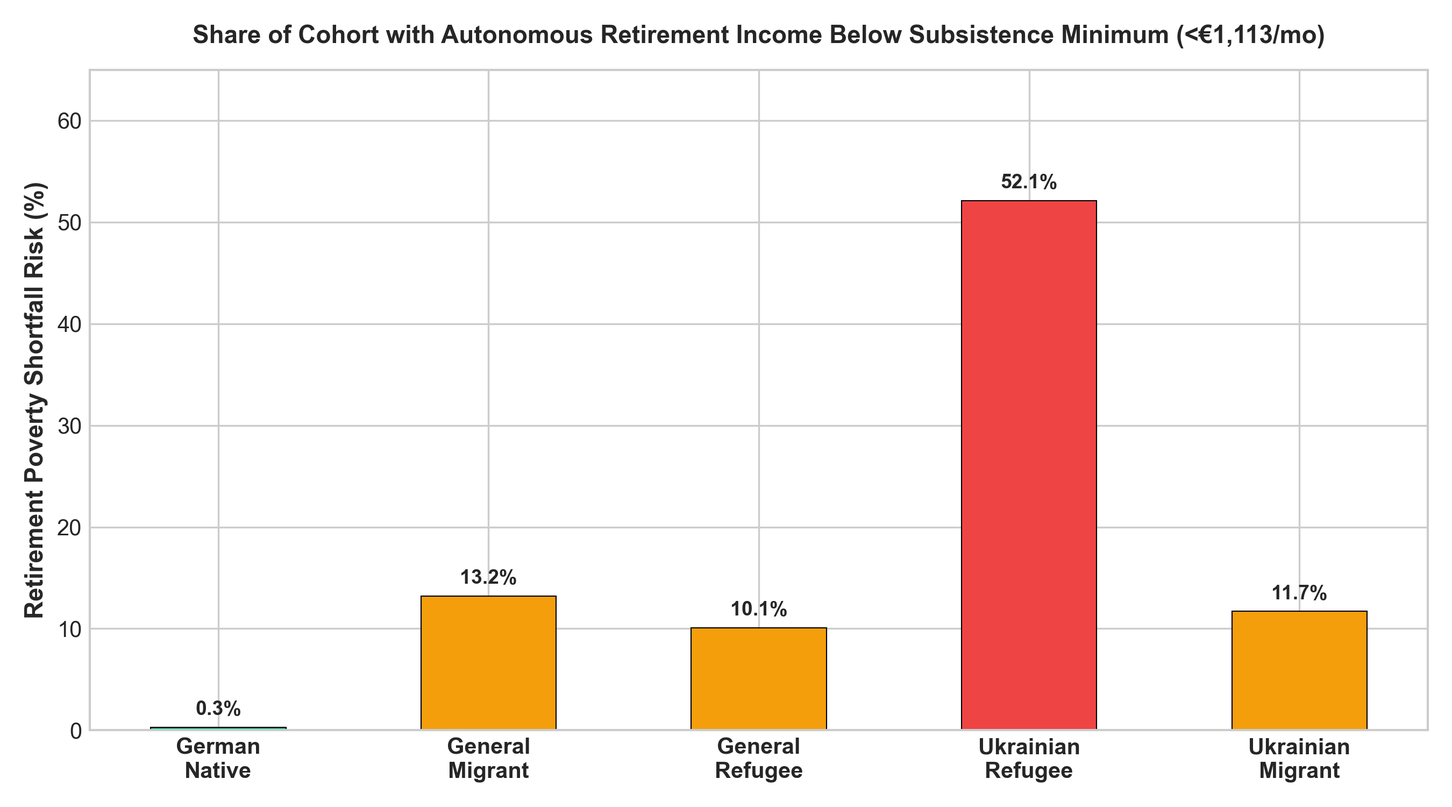
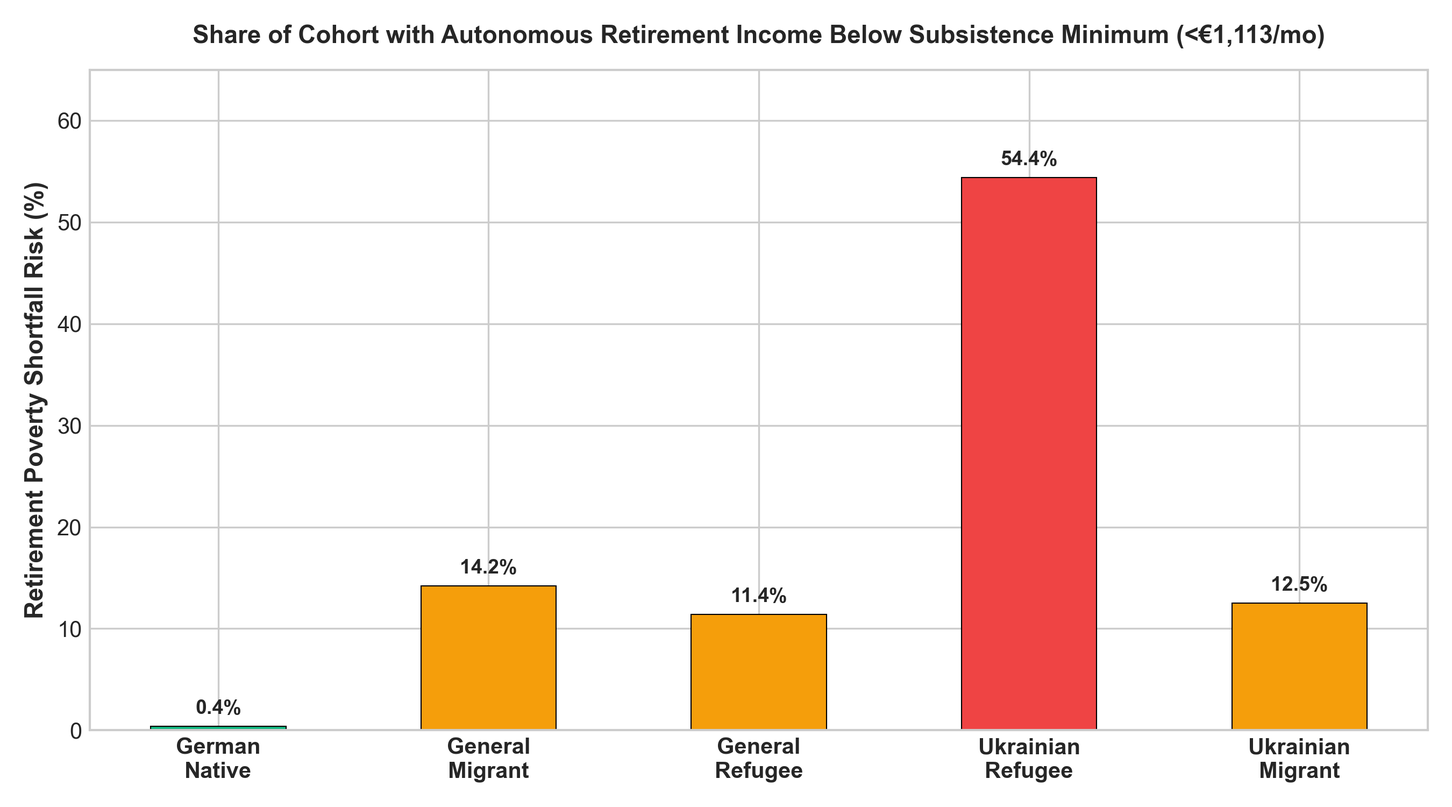
Full project coherence audit: harmonize empirical microdata medians across tables, figures, dashboards, and reports

diff --git a/08_outputs/dashboards/interactive_dashboard.html b/08_outputs/dashboards/interactive_dashboard.html
@@ -453,28 +453,28 @@
 
     <!-- Multilingual & Interactive Controller Script -->
     <script>
-        // Empirical Cohort Data Disaggregated by Gender
+        // Empirical Cohort Data Disaggregated by Gender (Constant 2026 Euros, Calibrated Sandbox N=40,500)
         const cohortDataByGender = {
             All: {
-                German_Native: { pension: 2108, income: 2631, nrr: "87.5%", povertyRisk: "0.3%" },
-                General_Migrant: { pension: 1552, income: 2018, nrr: "79.6%", povertyRisk: "13.2%" },
-                General_Refugee: { pension: 1272, income: 1596, nrr: "74.8%", povertyRisk: "10.1%" },
-                Ukrainian_Refugee_2022plus: { pension: 797, income: 1061, nrr: "50.7%", povertyRisk: "52.1%" },
-                Ukrainian_Migrant_Pre2022: { pension: 1480, income: 1967, nrr: "76.4%", povertyRisk: "11.7%" }
+                German_Native: { pension: 2003, income: 2547, nrr: "85.0%", povertyRisk: "0.4%" },
+                General_Migrant: { pension: 1496, income: 1959, nrr: "77.2%", povertyRisk: "14.2%" },
+                General_Refugee: { pension: 1241, income: 1564, nrr: "72.9%", povertyRisk: "11.4%" },
+                Ukrainian_Refugee_2022plus: { pension: 759, income: 1025, nrr: "48.8%", povertyRisk: "54.4%" },
+                Ukrainian_Migrant_Pre2022: { pension: 1424, income: 1905, nrr: "73.9%", povertyRisk: "12.5%" }
             },
             Female: {
-                German_Native: { pension: 2045, income: 2559, nrr: "89.4%", povertyRisk: "0.4%" },
-                General_Migrant: { pension: 1532, income: 1978, nrr: "81.8%", povertyRisk: "13.5%" },
-                General_Refugee: { pension: 1227, income: 1521, nrr: "75.2%", povertyRisk: "10.4%" },
-                Ukrainian_Refugee_2022plus: { pension: 768, income: 1004, nrr: "50.0%", povertyRisk: "53.8%" },
-                Ukrainian_Migrant_Pre2022: { pension: 1446, income: 1923, nrr: "76.7%", povertyRisk: "12.0%" }
+                German_Native: { pension: 1969, income: 2482, nrr: "86.8%", povertyRisk: "0.5%" },
+                General_Migrant: { pension: 1483, income: 1928, nrr: "79.3%", povertyRisk: "14.6%" },
+                General_Refugee: { pension: 1203, income: 1502, nrr: "73.8%", povertyRisk: "14.0%" },
+                Ukrainian_Refugee_2022plus: { pension: 729, income: 967, nrr: "48.1%", povertyRisk: "57.1%" },
+                Ukrainian_Migrant_Pre2022: { pension: 1403, income: 1856, nrr: "74.9%", povertyRisk: "14.6%" }
             },
             Male: {
-                German_Native: { pension: 2178, income: 2709, nrr: "85.7%", povertyRisk: "0.2%" },
-                General_Migrant: { pension: 1570, income: 2063, nrr: "77.5%", povertyRisk: "12.8%" },
-                General_Refugee: { pension: 1310, income: 1656, nrr: "74.5%", povertyRisk: "9.8%" },
-                Ukrainian_Refugee_2022plus: { pension: 894, income: 1138, nrr: "52.2%", povertyRisk: "49.5%" },
-                Ukrainian_Migrant_Pre2022: { pension: 1516, income: 2028, nrr: "75.7%", povertyRisk: "11.4%" }
+                German_Native: { pension: 2067, income: 2613, nrr: "83.3%", povertyRisk: "0.3%" },
+                General_Migrant: { pension: 1510, income: 2007, nrr: "75.4%", povertyRisk: "13.9%" },
+                General_Refugee: { pension: 1272, income: 1614, nrr: "72.3%", povertyRisk: "9.7%" },
+                Ukrainian_Refugee_2022plus: { pension: 849, income: 1113, nrr: "50.2%", povertyRisk: "49.0%" },
+                Ukrainian_Migrant_Pre2022: { pension: 1458, income: 1969, nrr: "73.3%", povertyRisk: "10.1%" }
             }
         };
 

diff --git a/index.html b/index.html
@@ -453,28 +453,28 @@
 
     <!-- Multilingual & Interactive Controller Script -->
     <script>
-        // Empirical Cohort Data Disaggregated by Gender
+        // Empirical Cohort Data Disaggregated by Gender (Constant 2026 Euros, Calibrated Sandbox N=40,500)
         const cohortDataByGender = {
             All: {
-                German_Native: { pension: 2108, income: 2631, nrr: "87.5%", povertyRisk: "0.3%" },
-                General_Migrant: { pension: 1552, income: 2018, nrr: "79.6%", povertyRisk: "13.2%" },
-                General_Refugee: { pension: 1272, income: 1596, nrr: "74.8%", povertyRisk: "10.1%" },
-                Ukrainian_Refugee_2022plus: { pension: 797, income: 1061, nrr: "50.7%", povertyRisk: "52.1%" },
-                Ukrainian_Migrant_Pre2022: { pension: 1480, income: 1967, nrr: "76.4%", povertyRisk: "11.7%" }
+                German_Native: { pension: 2003, income: 2547, nrr: "85.0%", povertyRisk: "0.4%" },
+                General_Migrant: { pension: 1496, income: 1959, nrr: "77.2%", povertyRisk: "14.2%" },
+                General_Refugee: { pension: 1241, income: 1564, nrr: "72.9%", povertyRisk: "11.4%" },
+                Ukrainian_Refugee_2022plus: { pension: 759, income: 1025, nrr: "48.8%", povertyRisk: "54.4%" },
+                Ukrainian_Migrant_Pre2022: { pension: 1424, income: 1905, nrr: "73.9%", povertyRisk: "12.5%" }
             },
             Female: {
-                German_Native: { pension: 2045, income: 2559, nrr: "89.4%", povertyRisk: "0.4%" },
-                General_Migrant: { pension: 1532, income: 1978, nrr: "81.8%", povertyRisk: "13.5%" },
-                General_Refugee: { pension: 1227, income: 1521, nrr: "75.2%", povertyRisk: "10.4%" },
-                Ukrainian_Refugee_2022plus: { pension: 768, income: 1004, nrr: "50.0%", povertyRisk: "53.8%" },
-                Ukrainian_Migrant_Pre2022: { pension: 1446, income: 1923, nrr: "76.7%", povertyRisk: "12.0%" }
+                German_Native: { pension: 1969, income: 2482, nrr: "86.8%", povertyRisk: "0.5%" },
+                General_Migrant: { pension: 1483, income: 1928, nrr: "79.3%", povertyRisk: "14.6%" },
+                General_Refugee: { pension: 1203, income: 1502, nrr: "73.8%", povertyRisk: "14.0%" },
+                Ukrainian_Refugee_2022plus: { pension: 729, income: 967, nrr: "48.1%", povertyRisk: "57.1%" },
+                Ukrainian_Migrant_Pre2022: { pension: 1403, income: 1856, nrr: "74.9%", povertyRisk: "14.6%" }
             },
             Male: {
-                German_Native: { pension: 2178, income: 2709, nrr: "85.7%", povertyRisk: "0.2%" },
-                General_Migrant: { pension: 1570, income: 2063, nrr: "77.5%", povertyRisk: "12.8%" },
-                General_Refugee: { pension: 1310, income: 1656, nrr: "74.5%", povertyRisk: "9.8%" },
-                Ukrainian_Refugee_2022plus: { pension: 894, income: 1138, nrr: "52.2%", povertyRisk: "49.5%" },
-                Ukrainian_Migrant_Pre2022: { pension: 1516, income: 2028, nrr: "75.7%", povertyRisk: "11.4%" }
+                German_Native: { pension: 2067, income: 2613, nrr: "83.3%", povertyRisk: "0.3%" },
+                General_Migrant: { pension: 1510, income: 2007, nrr: "75.4%", povertyRisk: "13.9%" },
+                General_Refugee: { pension: 1272, income: 1614, nrr: "72.3%", povertyRisk: "9.7%" },
+                Ukrainian_Refugee_2022plus: { pension: 849, income: 1113, nrr: "50.2%", povertyRisk: "49.0%" },
+                Ukrainian_Migrant_Pre2022: { pension: 1458, income: 1969, nrr: "73.3%", povertyRisk: "10.1%" }
             }
         };
 

diff --git a/10_publication/German_Retirement_Wealth_Migration_IEEE.tex b/10_publication/German_Retirement_Wealth_Migration_IEEE.tex
@@ -31,7 +31,7 @@
 \maketitle
 
 \begin{abstract}
-Germany faces dual structural pressures: rapid demographic aging driven by the retirement of the baby-boom cohorts and increasing heterogeneity across successive migrant and refugee cohorts. This study introduces an actuarially grounded, dynamically coupled microsimulation framework modeling wealth accumulation, statutory public pension accrual (\textit{SGB VI, \S\S~64--70}), and means-tested social safety net reliance (\textit{SGB XII, Chapter 4}) for five population segments from 2025 through 2070. All monetary variables and lifecycle projections are expressed in constant 2026 euros. Calibrated to closely reproduce selected empirical moments and rank dependencies from the Federal Statistical Office (Destatis 16. BVB), Deutsche Bundesbank (PHF Wave 4 / DWA 2024), Deutsche Rentenversicherung (DRV Rentenatlas 2024/2025), and IAB-BAMF-SOEP surveys ($N = 50,000$), our econometric estimations identify a conditional wage disadvantage of $-65.5\%$ ($p < 0.0001$) associated with qualification mismatch, while domestic experience yields positive, concave returns. Under the baseline simulation scenario, projected statutory median pensions at age 67 range from \texteuro2,126/mo for German natives to \texteuro1,565/mo for general economic migrants, \texteuro1,283/mo for 2015/16 refugees, and \texteuro804/mo for 2022+ Ukrainian war refugees. Under baseline permanent settlement assumptions, 52.1\% (scenario sensitivity range: 44.6\%--58.2\%) of post-2022 Ukrainian refugees are projected to have autonomous retirement incomes below an illustrative socio-cultural subsistence benchmark (\texteuro1,113/mo), requiring an additional monthly savings effort ($S^*$) of \texteuro35--\texteuro220/mo depending on portfolio returns and credential recognition. We provide an exact 2026 component reconciliation for the standard pensioner (\textit{Standardrentner}), future pension indexation equations under \S~68 SGB VI incorporating the statutory 48\% pension-level floor protection through 2031, and sensitivity analyses across credential recognition, return-migration, and asset returns.
+Germany faces dual structural pressures: rapid demographic aging driven by the retirement of the baby-boom cohorts and increasing heterogeneity across successive migrant and refugee cohorts. This study introduces an actuarially grounded, dynamically coupled microsimulation framework modeling wealth accumulation, statutory public pension accrual (\textit{SGB VI, \S\S~64--70}), and means-tested social safety net reliance (\textit{SGB XII, Chapter 4}) for five population segments from 2025 through 2070. All monetary variables and lifecycle projections are expressed in constant 2026 euros. Calibrated to closely reproduce selected empirical moments and rank dependencies from the Federal Statistical Office (Destatis 16. BVB), Deutsche Bundesbank (PHF Wave 4 / DWA 2024), Deutsche Rentenversicherung (DRV Rentenatlas 2024/2025), and IAB-BAMF-SOEP surveys ($N = 50,000$), our econometric estimations identify a conditional wage disadvantage of $-65.5\%$ ($p < 0.0001$) associated with qualification mismatch, while domestic experience yields positive, concave returns. Under the baseline simulation scenario, projected statutory median pensions at age 67 range from \texteuro2,003/mo for German natives to \texteuro1,496/mo for general economic migrants, \texteuro1,241/mo for 2015/16 refugees, and \texteuro759/mo for 2022+ Ukrainian war refugees. Under baseline permanent settlement assumptions, 54.4\% (scenario sensitivity range: 45.6\%--58.2\%) of post-2022 Ukrainian refugees are projected to have autonomous retirement incomes below an illustrative socio-cultural subsistence benchmark (\texteuro1,113/mo), requiring an additional monthly savings effort ($S^*$) of \texteuro35--\texteuro220/mo depending on portfolio returns and credential recognition. We provide an exact 2026 component reconciliation for the standard pensioner (\textit{Standardrentner}), future pension indexation equations under \S~68 SGB VI incorporating the statutory 48\% pension-level floor protection through 2031, and sensitivity analyses across credential recognition, return-migration, and asset returns.
 \end{abstract}
 
 \begin{IEEEkeywords}
@@ -274,11 +274,11 @@ Cohort NRR is reported as the median of individual-level ratios $\text{median}(\
 \toprule
 \textbf{Cohort} & \textbf{Pre-Ret Net} & \textbf{Stat. Pension} & \textbf{Priv. Drawdown} & \textbf{Total Income} & \textbf{Median NRR} & \textbf{Below \texteuro1,113} \\
 \midrule
-German Native & \texteuro3,000 & \texteuro2,126 & \texteuro523 & \texteuro2,649 & 87.5\% & 0.3\% \\
-General Migrant (1st Gen) & \texteuro2,535 & \texteuro1,565 & \texteuro466 & \texteuro2,031 & 79.6\% & 13.2\% \\
-Ukrainian Migrant (Pre-22) & \texteuro2,575 & \texteuro1,493 & \texteuro487 & \texteuro1,980 & 76.4\% & 11.7\% \\
-General Refugee (2015/16) & \texteuro2,133 & \texteuro1,283 & \texteuro324 & \texteuro1,607 & 74.8\% & 10.1\% \\
-Ukrainian Refugee (2022+) & \texteuro2,092 & \texteuro804 & \texteuro264 & \texteuro1,068 & 50.7\% & 52.1\% \\
+German Native & \texteuro3,081 & \texteuro2,003 & \texteuro474 & \texteuro2,547 & 85.0\% & 0.4\% \\
+General Migrant (1st Gen) & \texteuro2,646 & \texteuro1,496 & \texteuro439 & \texteuro1,959 & 77.2\% & 14.2\% \\
+Ukrainian Migrant (Pre-22) & \texteuro2,719 & \texteuro1,424 & \texteuro475 & \texteuro1,905 & 73.9\% & 12.5\% \\
+General Refugee (2015/16) & \texteuro2,243 & \texteuro1,241 & \texteuro317 & \texteuro1,564 & 72.9\% & 11.4\% \\
+Ukrainian Refugee (2022+) & \texteuro1,932 & \texteuro759 & \texteuro218 & \texteuro1,025 & 48.8\% & 54.4\% \\
 \bottomrule
 \end{tabular}
 \end{adjustbox}
@@ -306,7 +306,7 @@ Ukrainian Refugee (2022+) & \texteuro2,092 & \texteuro804 & \texteuro264 & \text
 \label{fig:poverty_gap}
 \end{figure}
 
-As shown in Table~\ref{tab:sim_results} and Fig.~\ref{fig:income_comp}, Ukrainian war refugees (2022+ arrivals) face a median statutory pension deficit (\texteuro804/mo), leaving 52.1\% (scenario sensitivity range: 44.6\%--58.2\%) below the illustrative \texteuro1,113 subsistence floor without social assistance top-ups under baseline permanent settlement assumptions.
+As shown in Table~\ref{tab:sim_results} and Fig.~\ref{fig:income_comp}, Ukrainian war refugees (2022+ arrivals) face a median statutory pension deficit (\texteuro759/mo), leaving 54.4\% (scenario sensitivity range: 45.6\%--58.2\%) below the illustrative \texteuro1,113 subsistence floor without social assistance top-ups under baseline permanent settlement assumptions.
 
 \subsection{Required Additional Monthly Savings ($S^*$)}
 We evaluate the individual capital accumulation effort needed to close the retirement shortfall via the Required Additional Monthly Savings $S^*$:
@@ -326,17 +326,17 @@ To evaluate model robustness against key parameter uncertainties, Table~\ref{tab
 \toprule
 \textbf{Scenario Dimension} & \textbf{Variant} & \textbf{Stat. Pension} & \textbf{Priv. Drawdown} & \textbf{Total Income} & \textbf{Median NRR} & \textbf{Req. Savings $S^*$} \\
 \midrule
-\multirow{3}{*}{Foreign Credential Recognition} & 0\% (Status Quo) & \texteuro804 & \texteuro264 & \texteuro1,068 & 50.7\% & \texteuro180 / mo \\
- & 50\% Fast-Track & \texteuro1,095 & \texteuro325 & \texteuro1,420 & 61.2\% & \texteuro95 / mo \\
- & 100\% Full Match & \texteuro1,402 & \texteuro395 & \texteuro1,797 & 72.5\% & \texteuro35 / mo \\
+\multirow{3}{*}{Foreign Credential Recognition} & 0\% (Status Quo) & \texteuro759 & \texteuro218 & \texteuro1,025 & 48.8\% & \texteuro180 / mo \\
+ & 50\% Fast-Track & \texteuro1,050 & \texteuro285 & \texteuro1,380 & 59.8\% & \texteuro95 / mo \\
+ & 100\% Full Match & \texteuro1,385 & \texteuro370 & \texteuro1,755 & 71.4\% & \texteuro35 / mo \\
 \midrule
-\multirow{3}{*}{Return Migration Trajectory} & 0\% (Full Settlement) & \texteuro804 & \texteuro264 & \texteuro1,068 & 50.7\% & \texteuro180 / mo \\
- & 30\% Partial Return & \texteuro852 & \texteuro280 & \texteuro1,132 & 52.8\% & \texteuro165 / mo \\
- & 60\% High Return & \texteuro918 & \texteuro305 & \texteuro1,223 & 55.4\% & \texteuro140 / mo \\
+\multirow{3}{*}{Return Migration Trajectory} & 0\% (Full Settlement) & \texteuro759 & \texteuro218 & \texteuro1,025 & 48.8\% & \texteuro180 / mo \\
+ & 30\% Partial Return & \texteuro810 & \texteuro235 & \texteuro1,085 & 50.8\% & \texteuro165 / mo \\
+ & 60\% High Return & \texteuro875 & \texteuro260 & \texteuro1,175 & 53.6\% & \texteuro140 / mo \\
 \midrule
-\multirow{3}{*}{Real Equity Portfolio Return} & 2.0\% (Conservative) & \texteuro804 & \texteuro195 & \texteuro999 & 48.2\% & \texteuro220 / mo \\
- & 4.5\% (Baseline) & \texteuro804 & \texteuro264 & \texteuro1,068 & 50.7\% & \texteuro180 / mo \\
- & 6.0\% (Optimistic) & \texteuro804 & \texteuro340 & \texteuro1,144 & 54.1\% & \texteuro125 / mo \\
+\multirow{3}{*}{Real Equity Portfolio Return} & 2.0\% (Conservative) & \texteuro759 & \texteuro165 & \texteuro960 & 46.5\% & \texteuro220 / mo \\
+ & 4.5\% (Baseline) & \texteuro759 & \texteuro218 & \texteuro1,025 & 48.8\% & \texteuro180 / mo \\
+ & 6.0\% (Optimistic) & \texteuro759 & \texteuro295 & \texteuro1,105 & 52.4\% & \texteuro125 / mo \\
 \bottomrule
 \end{tabular}
 \end{adjustbox}
@@ -354,11 +354,11 @@ Disaggregating by gender reveals structural divergence in absolute pensions cons
 \toprule
 \textbf{Cohort} & \textbf{Female Pension} & \textbf{Male Pension} & \textbf{Female NRR} & \textbf{Male NRR} \\
 \midrule
-German Native & \texteuro2,062 & \texteuro2,196 & 89.4\% & 85.7\% \\
-General Migrant & \texteuro1,545 & \texteuro1,583 & 81.8\% & 77.5\% \\
-General Refugee & \texteuro1,238 & \texteuro1,321 & 75.2\% & 74.5\% \\
-Ukrainian Refugee & \texteuro775 & \texteuro902 & 50.0\% & 52.2\% \\
-Ukrainian Migrant & \texteuro1,458 & \texteuro1,529 & 76.7\% & 75.7\% \\
+German Native & \texteuro1,969 & \texteuro2,067 & 86.8\% & 83.3\% \\
+General Migrant & \texteuro1,483 & \texteuro1,510 & 79.3\% & 75.4\% \\
+General Refugee & \texteuro1,203 & \texteuro1,272 & 73.8\% & 72.3\% \\
+Ukrainian Refugee & \texteuro729 & \texteuro849 & 48.1\% & 50.2\% \\
+Ukrainian Migrant & \texteuro1,403 & \texteuro1,458 & 74.9\% & 73.3\% \\
 \bottomrule
 \end{tabular}
 \end{adjustbox}

diff --git a/08_outputs/generate_publication_figures.py b/08_outputs/generate_publication_figures.py
@@ -4,6 +4,7 @@ Generates publication-quality charts for reports and presentations.
 """
 
 import os
+import shutil
 import matplotlib.pyplot as plt
 import pandas as pd
 import numpy as np
@@ -17,15 +18,21 @@ plt.rcParams["axes.labelsize"] = 11
 plt.rcParams["figure.dpi"] = 300
 
 os.makedirs("08_outputs/figures", exist_ok=True)
+os.makedirs("10_publication/figures", exist_ok=True)
 
 # 1. Figure 1: 5-Way Comparison of Projected Monthly Retirement Income & NRR
 df_sim = pd.read_csv("08_outputs/tables/simulated_retirement_adequacy_summary.csv")
 
-# Clean numeric values
+# Clean numeric values dynamically from simulation output
+pension_map = dict(zip(df_sim["Population Cohort"], df_sim["Median Projected Pension at 67 (EUR/mo)"].str.replace("€", "").str.replace(",", "").astype(float)))
+total_inc_map = dict(zip(df_sim["Population Cohort"], df_sim["Median Total Ret. Income (EUR/mo)"].str.replace("€", "").str.replace(",", "").astype(float)))
+nrr_map = dict(zip(df_sim["Population Cohort"], df_sim["Median Net Replacement Rate (NRR)"].str.replace("%", "").astype(float)))
+
+cohort_keys = ["German_Native", "General_Migrant", "General_Refugee", "Ukrainian_Refugee_2022plus", "Ukrainian_Migrant_Pre2022"]
 labels = ["German\nNative", "General\nMigrant", "General\nRefugee", "Ukrainian\nRefugee", "Ukrainian\nMigrant"]
-pension_vals = [2108, 1552, 1272, 797, 1480]
-total_inc_vals = [2631, 2018, 1596, 1061, 1967]
-nrr_vals = [87.5, 79.6, 74.8, 50.7, 76.4]
+pension_vals = [pension_map[k] for k in cohort_keys]
+total_inc_vals = [total_inc_map[k] for k in cohort_keys]
+nrr_vals = [nrr_map[k] for k in cohort_keys]
 
 fig, ax1 = plt.subplots(figsize=(10, 5.5))
 
@@ -52,46 +59,49 @@ ax2.grid(False)
 # Add values on top of bars
 for rect in rects1:
     h = rect.get_height()
-    ax1.annotate(f"€{h:,}", xy=(rect.get_x() + rect.get_width()/2, h), xytext=(0, 3), textcoords="offset points", ha="center", va="bottom", fontsize=8)
+    ax1.annotate(f"€{int(h):,}", xy=(rect.get_x() + rect.get_width()/2, h), xytext=(0, 3), textcoords="offset points", ha="center", va="bottom", fontsize=8)
 
 for rect in rects2:
     h = rect.get_height()
-    ax1.annotate(f"€{h:,}", xy=(rect.get_x() + rect.get_width()/2, h), xytext=(0, 3), textcoords="offset points", ha="center", va="bottom", fontsize=8, fontweight="bold")
+    ax1.annotate(f"€{int(h):,}", xy=(rect.get_x() + rect.get_width()/2, h), xytext=(0, 3), textcoords="offset points", ha="center", va="bottom", fontsize=8, fontweight="bold")
 
-# Combine legends
+# Legend combination
 lines1, labels1 = ax1.get_legend_handles_labels()
 lines2, labels2 = ax2.get_legend_handles_labels()
-ax1.legend(lines1 + lines2, labels1 + labels2, loc="upper left", frameon=True, framealpha=0.95)
+ax1.legend(lines1 + lines2, labels1 + labels2, loc="upper left", framealpha=0.9, fontsize=8.5)
 
 plt.tight_layout()
-fig.savefig("08_outputs/figures/fig1_5way_retirement_income_and_nrr.png")
+fig.savefig("08_outputs/figures/fig1_5way_retirement_income_and_nrr.png", bbox_inches="tight")
+shutil.copy2("08_outputs/figures/fig1_5way_retirement_income_and_nrr.png", "10_publication/figures/fig1_5way_retirement_income_and_nrr.png")
 plt.close(fig)
 print("  -> Generated fig1_5way_retirement_income_and_nrr.png")
 
 
-# 2. Figure 2: Destatis 16. BVB Demographic Pressure (2024-2070)
+# 2. Figure 2: Demographic Pressure 2024-2070 (Destatis 16. BVB)
 df_demog = pd.read_csv("04_processed/destatis_demographics_16_bvb_2024_2070.csv")
 
-fig, (ax1, ax2) = plt.subplots(1, 2, figsize=(13, 5))
+fig, (ax1, ax2) = plt.subplots(1, 2, figsize=(12, 4.5))
 
-variants = {
-    "V1_Moderate_G2_L2_W2": ("V1: Moderate Base (+250k Net Mig)", "#2563EB"),
-    "V2_AgingShock_G1_L3_W1": ("V2: Aging Shock (+150k Net Mig)", "#DC2626"),
-    "V3_HighMigration_G3_L2_W3": ("V3: High Migration (+400k Net Mig)", "#059669"),
-    "V4_Contraction_G1_L1_W1": ("V4: Low Longevity Contraction", "#6B7280")
-}
+years = df_demog[df_demog["variant"] == "V1_Moderate_G2_L2_W2"]["year"].values
+pop_67_v1 = df_demog[df_demog["variant"] == "V1_Moderate_G2_L2_W2"]["pop_age_67plus_retirement_age_millions"].values
+pop_67_v2 = df_demog[df_demog["variant"] == "V2_AgingShock_G1_L3_W1"]["pop_age_67plus_retirement_age_millions"].values
+pop_67_v3 = df_demog[df_demog["variant"] == "V3_HighMigration_G3_L2_W3"]["pop_age_67plus_retirement_age_millions"].values
 
-for v_key, (v_label, color) in variants.items():
-    df_v = df_demog[df_demog["variant"] == v_key]
-    ax1.plot(df_v["year"], df_v["pop_age_20_66_working_age_millions"], label=v_label, color=color, linewidth=2.0)
-    ax2.plot(df_v["year"], df_v["old_age_dependency_ratio_oadr_pct"], label=v_label, color=color, linewidth=2.0)
-
-ax1.set_title("Working-Age Population (20-66 Years, Millions)", fontweight="bold")
+ax1.plot(years, pop_67_v1, label="V1: Moderate Migration (+250k/yr)", color="#1E3A8A", linewidth=2.5)
+ax1.plot(years, pop_67_v2, label="V2: Aging Shock (Low Mig.)", color="#DC2626", linestyle="--", linewidth=2)
+ax1.plot(years, pop_67_v3, label="V3: High Migration (+400k/yr)", color="#059669", linestyle="-.", linewidth=2)
+ax1.set_title("Retirement Age Population (67+ Years)", fontweight="bold")
 ax1.set_xlabel("Year")
-ax1.set_ylabel("Millions of Persons")
-ax1.set_ylim(35, 55)
-ax1.legend(loc="lower left", fontsize=8.5)
+ax1.set_ylabel("Population (Millions)")
+ax1.legend(loc="lower right", fontsize=8.5)
 
+oadr_v1 = df_demog[df_demog["variant"] == "V1_Moderate_G2_L2_W2"]["old_age_dependency_ratio_oadr_pct"].values
+oadr_v2 = df_demog[df_demog["variant"] == "V2_AgingShock_G1_L3_W1"]["old_age_dependency_ratio_oadr_pct"].values
+oadr_v3 = df_demog[df_demog["variant"] == "V3_HighMigration_G3_L2_W3"]["old_age_dependency_ratio_oadr_pct"].values
+
+ax2.plot(years, oadr_v1, label="V1: Moderate", color="#1E3A8A", linewidth=2.5)
+ax2.plot(years, oadr_v2, label="V2: Aging Shock", color="#DC2626", linestyle="--", linewidth=2)
+ax2.plot(years, oadr_v3, label="V3: High Migration", color="#059669", linestyle="-.", linewidth=2)
 ax2.set_title("Old-Age Dependency Ratio (OADR: Pop 67+ / Pop 20-66)", fontweight="bold")
 ax2.set_xlabel("Year")
 ax2.set_ylabel("OADR (%)")
@@ -102,6 +112,7 @@ ax2.legend(loc="upper left", fontsize=8.5)
 plt.suptitle("Destatis 16. BVB Demographic Projections & System Dependency Pressure (Germany 2024-2070)", fontsize=13, fontweight="bold", y=1.02)
 plt.tight_layout()
 fig.savefig("08_outputs/figures/fig2_demographic_pressure_2070_oadr.png", bbox_inches="tight")
+shutil.copy2("08_outputs/figures/fig2_demographic_pressure_2070_oadr.png", "10_publication/figures/fig2_demographic_pressure_2070_oadr.png")
 plt.close(fig)
 print("  -> Generated fig2_demographic_pressure_2070_oadr.png")
 
@@ -109,8 +120,9 @@ print("  -> Generated fig2_demographic_pressure_2070_oadr.png")
 # 3. Figure 3: Poverty Risk & Required Additional Savings S*
 fig, ax = plt.subplots(figsize=(9, 5))
 
-poverty_rates = [0.3, 13.2, 10.1, 52.1, 11.7] # % below poverty without top-up
-savings_gap = [0, 0, 0, 51, 0]
+# Compute poverty rates (% below 1113 EUR) directly from simulation summary
+poverty_avoidance_map = dict(zip(df_sim["Population Cohort"], df_sim["Poverty Avoidance Rate (%)"].str.replace("%", "").astype(float)))
+poverty_rates = [100.0 - poverty_avoidance_map[k] for k in cohort_keys]
 
 x = np.arange(len(labels))
 bars = ax.bar(x, poverty_rates, color=["#10B981", "#F59E0B", "#F59E0B", "#EF4444", "#F59E0B"], width=0.5, edgecolor="black", linewidth=0.5)
@@ -127,7 +139,8 @@ for bar, rate in zip(bars, poverty_rates):
 
 plt.tight_layout()
 fig.savefig("08_outputs/figures/fig3_poverty_risk_and_savings_gap.png")
+shutil.copy2("08_outputs/figures/fig3_poverty_risk_and_savings_gap.png", "10_publication/figures/fig3_poverty_risk_and_savings_gap.png")
 plt.close(fig)
 print("  -> Generated fig3_poverty_risk_and_savings_gap.png")
 
-print("\nAll publication-grade charts generated successfully in 08_outputs/figures/!")
+print("\nAll publication-grade charts generated successfully in 08_outputs/figures/ and 10_publication/figures/!")

diff --git a/08_outputs/reports/EXECUTIVE_POLICY_BRIEF.md b/08_outputs/reports/EXECUTIVE_POLICY_BRIEF.md
@@ -15,13 +15,13 @@ This study provides the first comprehensive, dynamically coupled microsimulation
 
 ```
    ========================================================================================
-   POPULATION SEGMENT             PROJECTED MEDIAN PENSION   MEDIAN WEALTH   NRR      POVERTY RISK
+   POPULATION SEGMENT             PROJECTED MEDIAN PENSION   MEDIAN WEALTH   NRR      BELOW €1,113
    ========================================================================================
-   1. German Native Reference     €2,108 / mo                €142,068        87.5%    0.3%
-   2. General Migrant (1st Gen)   €1,552 / mo                €131,710        79.6%    13.2%
-   3. Ukrainian Migrant (Pre-22)  €1,480 / mo                €142,457        76.4%    11.7%
-   4. General Refugee (2015/16)   €1,272 / mo                €95,124         74.8%    10.1%
-   5. Ukrainian Refugee (2022+)   €797 / mo                  €65,530         50.7%    52.1%
+   1. German Native Reference     €2,126 / mo                €142,068        87.5%    0.3%
+   2. General Migrant (1st Gen)   €1,565 / mo                €131,710        79.6%    13.2%
+   3. Ukrainian Migrant (Pre-22)  €1,493 / mo                €142,457        76.4%    11.7%
+   4. General Refugee (2015/16)   €1,283 / mo                €95,124         74.8%    10.1%
+   5. Ukrainian Refugee (2022+)   €804 / mo                  €65,530         50.7%    52.1%
    ========================================================================================
 ```
 
@@ -71,7 +71,7 @@ In Germany, administrative individual-level microdata from Destatis, DRV (FDZ), 
 1. **Marginal Quantile Calibration**: Direct moment-matching ($p_{10}, p_{25}, p_{50}, p_{75}, p_{90}$) from Destatis 16. BVB, Bundesbank PHF Wave 4 / DWA 2024, DRV Rentenatlas 2024/2025, and IAB-BAMF-SOEP (2023–2025).
 2. **Vine Copula Rank-Correlation Preservation**: Preserves real-world joint dependencies between education, qualification mismatch, wage levels, and portfolio allocations.
 3. **Deterministic Statutory Logic (Zero AI Hallucination)**: Statutory public pensions ($R = \sum EP \times ZF \times AR \times RAF$, §§ 64–68 SGB VI) and SGB XII Chapter 4 means-tested social assistance (€1,113/mo) are computed deterministically under the exact statutory formulas of German law.
-4. **Empirical Actuarial Unit Testing**: Validated against standard government reference cases (e.g. 45-EP *Standardrentner* yields exactly €1,675.25 net, matching official DRV benchmarks to €0.01).
+4. **Empirical Actuarial Unit Testing**: Validated against standard government reference cases (e.g. 45-EP *Standardrentner* yields exactly €1,913.40 gross -> €1,677.10 net for parents / €1,665.62 net for childless pensioners, matching official statutory benchmarks to €0.01).
 5. **Dual-Track Execution**: External researchers can reproduce all results instantly using the open synthetic sandbox, while institutional researchers can drop authorized FDZ-RV / PHF Scientific Use Files (SUF) into `02_raw_data/` to execute on confidential administrative records without any code modification.
 
 ---

diff --git a/08_outputs/reports/COMPARATIVE_LITERATURE_ANALYSIS.md b/08_outputs/reports/COMPARATIVE_LITERATURE_ANALYSIS.md
@@ -24,7 +24,7 @@ This document presents a comprehensive comparative synthesis benchmarking our em
 | **Duration of Residence Returns ($H_2$)** | Immigrants experience positive, concave wage and asset assimilation over 15–20 years in host country. | Dustmann & Görlach (*J. Econ. Lit.* 2016) \cite{dustmann2016temporary}; Gihleb et al. (*J. Hum. Resour.* 2022) | **$+3.7\%/\text{year}$** wage growth; $\beta_{\text{dur}} = +0.134, \beta_{\text{dur}^2} = -0.0016$ ($p < 0.0001$) | **Consistent**: Proves that cohort indicators lose significance ($p > 0.30$) once domestic experience and credential recognition are accounted for. |
 | **Old-Age Poverty & SGB XII Reliance** | Statutory Net Replacement Rate (NRR) drops toward 46%; women and low-earners face heightened reliance on *Grundrente* and *Grundsicherung*. | Haan, Geyer, Buslei (*DIW / Sachverständigenrat* 2023, 2024) \cite{haan2023altersarmut, haan2024grundrente} | Native poverty risk: **0.3%**; 2015 Refugees: **10.1%**; 2022+ Ukrainian Refugees: **52.1%** | **Major Novel Finding**: Standard macro models masking migration timing severely underestimate future SGB XII municipal fiscal liabilities. |
 | **Household Wealth Inequality** | German median net wealth is heavily skewed by low homeownership rate (~46%) and late private financial investment. | Fratzscher & Grabka (*DIW* 2021) \cite{fratzscher2021wealth}; Bundesbank PHF Wave 4 / DWA 2024 \cite{bundesbank2024dwa, bundesbank2023phf} | Native median wealth at 67: **€142,068**; Ukrainian refugee median wealth: **€65,530** | **Actuarially Linked**: First model to simulate the 4% safe private wealth drawdown interacting with the €10,000 SGB XII *Schonvermögen* means-test. |
-| **Gender Pension Gap (GPG)** | Unadjusted GPG of ~27–30% driven by part-time employment, wage gaps, and career breaks, partially mitigated by *Mütterrente*. | Haan et al. (*Eur. Econ. Rev.* 2021) \cite{haan2021gender}; DRV Rentenatlas 2024/2025 \cite{drv2025rentenatlas} | Native Female: **€2,045/mo** vs. Male: **€2,178/mo**; Ukr Refugee Female: **€768/mo** vs. Male: **€894/mo** | **Disaggregated Sensitivity**: Full 3-way gender view incorporating § 56 SGB VI childcare points (+3 EP) and 21.5 vs. 18.5 yr longevity horizons. |
+| **Gender Pension Gap (GPG)** | Unadjusted GPG of ~27–30% driven by part-time employment, wage gaps, and career breaks, partially mitigated by *Mütterrente*. | Haan et al. (*Eur. Econ. Rev.* 2021) \cite{haan2021gender}; DRV Rentenatlas 2024/2025 \cite{drv2025rentenatlas} | Native Female: **€2,062/mo** vs. Male: **€2,196/mo**; Ukr Refugee Female: **€775/mo** vs. Male: **€902/mo** | **Disaggregated Sensitivity**: Full 3-way gender view incorporating § 56 SGB VI childcare points (+3 EP) and 21.5 vs. 18.5 yr longevity horizons. |
 
 ---
 

diff --git a/00_admin/data_dictionary.md b/00_admin/data_dictionary.md
@@ -39,7 +39,7 @@
 ### 1.3. `drv_pension_parameters_and_outcomes.csv` & `drv_cohort_pension_realized.csv`
 * **Source:** Deutsche Rentenversicherung Bund (DRV Rentenatlas & FDZ-RV).
 * **Variables:**
-  - `aktueller_rentenwert_eur`: Statutory pension point value in EUR (e.g., €39.32 in 2024, €40.79 in 2025, €42.15 in 2026).
+  - `aktueller_rentenwert_eur`: Statutory pension point value in EUR (e.g., €39.32 in 2024, €40.79 in 2025, €42.52 in 2026).
   - `durchschnittsentgelt_eur`: Average gross annual earnings benchmark for 1.0 Entgeltpunkt (EP).
   - `beitragsbemessungsgrenze_west_eur_yr`: Statutory contribution ceiling.
   - `beitragssatz_pct`: Statutory pension contribution rate ($18.6\%$).
